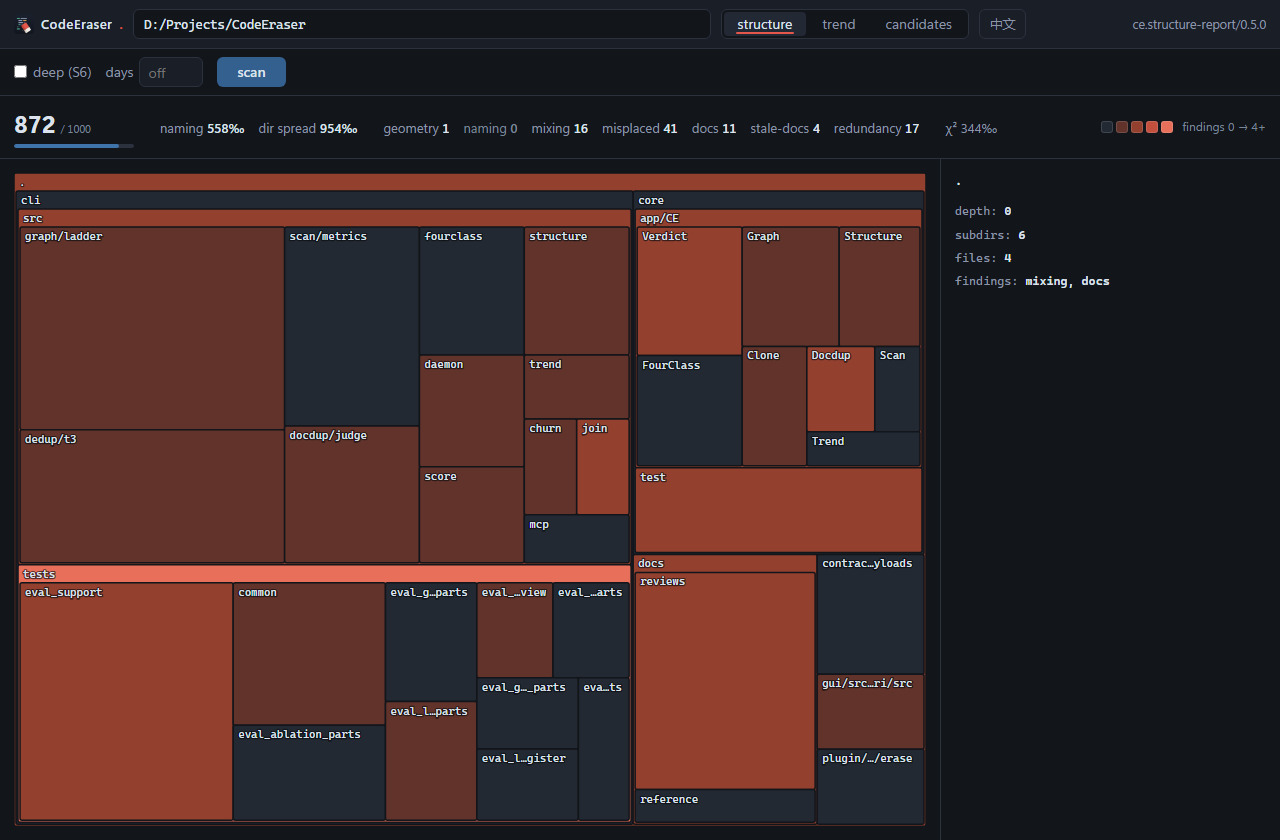
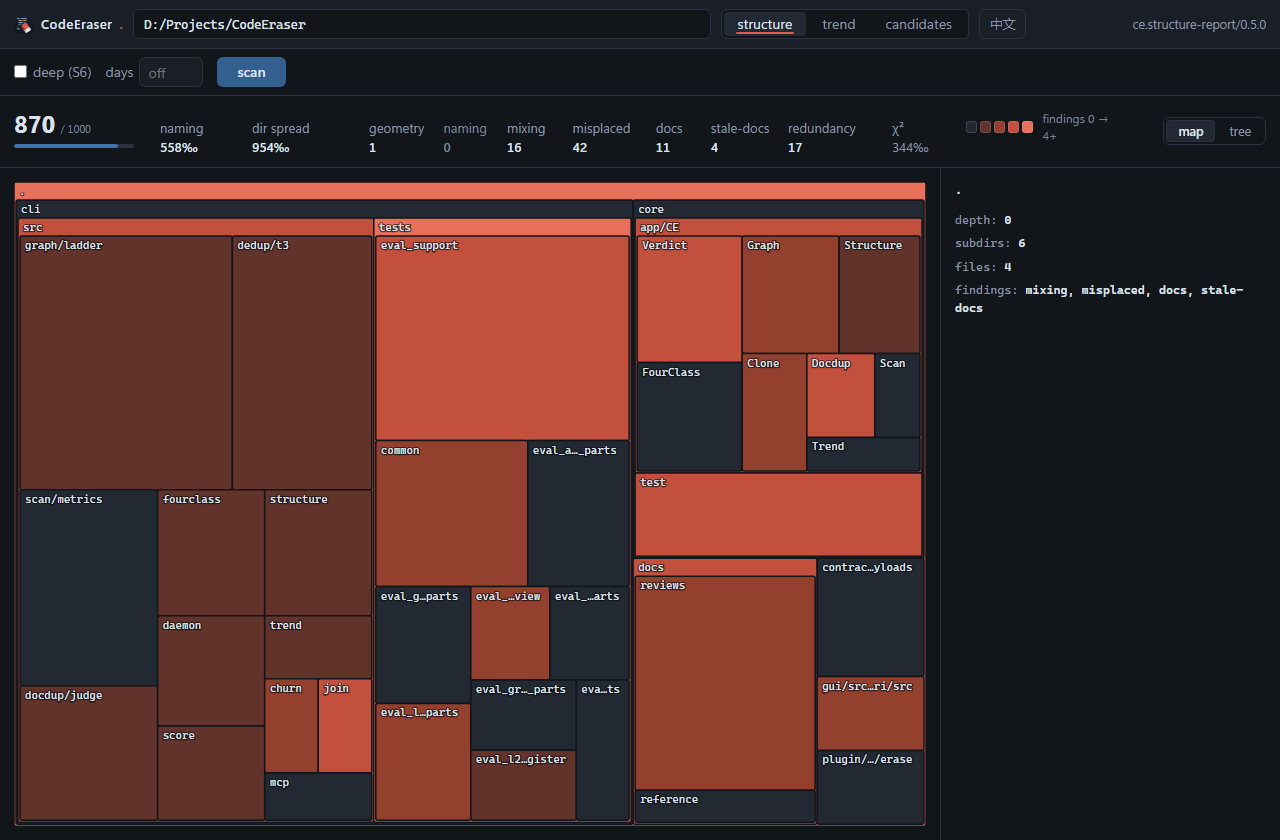
showcase: the tree lens joins the shop window
New 1280x840 captures from the fixed core (the treemap now honestly
heats the 22 directories axis 3 finally reports) replace both faces'
structure shots, and the tree lens gets its own figure on the site's
See-it-work rail (en/zh) between the map and the candidate browser.

diff --git a/site/index.html b/site/index.html
@@ -61,6 +61,10 @@ ratchet: 0 added, 0 removed, 0 over, 5 tolerance drawn -&gt; <span class="s">pas
     <figcaption>The structure screen judging this repository: a squarified treemap, tiles heated by findings density, one ratcheted score.</figcaption>
   </figure>
   <figure class="shot">
+    <img src="/assets/gui-tree.png" alt="CodeEraser GUI: structure tree view with subtree-heat rail, per-directory findings chips and inline axis tags" loading="lazy">
+    <figcaption>The same judgment as a tree: subtree trouble rolls up into the heat rail, and every row names its axes.</figcaption>
+  </figure>
+  <figure class="shot">
     <img src="/assets/gui-candidates.png" alt="CodeEraser GUI: deletion-candidate browser listing similar file pairs with block and token counts" loading="lazy">
     <figcaption>The deletion-candidate browser: similarity × graph position × churn, the same rows <code>ce join</code> prints.</figcaption>
   </figure>

diff --git a/site/zh/index.html b/site/zh/index.html
@@ -60,6 +60,10 @@
     <figcaption>结构屏判决本仓库自身：方化树图，色块按发现密度加热，一个只准变好的分数。</figcaption>
   </figure>
   <figure class="shot">
+    <img src="/assets/gui-tree.png" alt="CodeEraser GUI：结构树状视图，子树热轨、逐目录发现芯片与行内判轴标签" loading="lazy">
+    <figcaption>同一份判决的树状视角：子树问题上卷进热轨，每行直接点名判轴。</figcaption>
+  </figure>
+  <figure class="shot">
     <img src="/assets/gui-candidates.png" alt="CodeEraser GUI：删除候选浏览器，列出相似文件对与块/token 计数" loading="lazy">
     <figcaption>删除候选浏览器：相似度 × 图位置 × 变动史，与 <code>ce join</code> 打印的同一批行。</figcaption>
   </figure>
